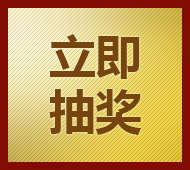
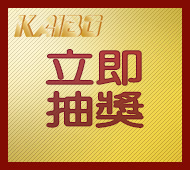
verison1

Changed region(s): [[0.0789, 0.0882, 0.7632, 0.8235]]

diff --git a/UcTest/index.html b/UcTest/index.html
@@ -1,138 +1,191 @@
 <!DOCTYPE html>
 <html>
-<head>
-<meta http-equiv="Content-Type" content="text/html; charset=utf-8" />
-<title>jQuery九宫格顺时针抽奖代码 - 站长素材</title>
 
-<style>
-#lottery{width:570px;height:510px;margin:0px auto;border:4px solid #ba1809;}
-#lottery table{background-color:yellow;}
-#lottery table td{position:relative;width:190px;height:170px;text-align:center;color:#333;font-index:-999}
-#lottery table td img{display:block;width:190px;height:170px;}
-#lottery table td a{width:190px;height:170px;display:block;text-decoration:none;background:url(lottery1.jpg) no-repeat top center;}
-#lottery table td a:hover{background-image:url(lottery2.jpg);}
-#lottery table td.active .mask{display:block;}
-.mask{
-    width:100%;
-    height:100%;
-    position:absolute;
-    left:0;
-    top:0;
-    background-color: rgba(252,211,4,0.5);
-    display:none;
-}
-</style>
+<head>
+    <meta http-equiv="Content-Type" content="text/html; charset=utf-8" />
+    <title>凱博-歡樂九宮格-凱博娛樂</title>
+
+    <style>
+        #lottery {
+            width: 570px;
+            height: 510px;
+            margin: 0px auto;
+            border: 4px solid #ba1809;
+        }
+
+        #lottery table {
+            background-color: yellow;
+        }
+
+        #lottery table td {
+            position: relative;
+            width: 190px;
+            height: 170px;
+            text-align: center;
+            color: #333;
+        }
+
+        #lottery table td img {
+            display: block;
+            width: 190px;
+            height: 170px;
+        }
+
+        #lottery table td a {
+            width: 190px;
+            height: 170px;
+            display: block;
+            text-decoration: none;
+            background: url(lottery1.jpg) no-repeat top center;
+        }
+
+        #lottery table td a:hover {
+            background-image: url(lottery2.jpg);
+        }
+
+        #lottery table td.active .mask {
+            display: block;
+        }
+
+        .mask {
+            width: 100%;
+            height: 100%;
+            position: absolute;
+            left: 0;
+            top: 0;
+            background-color: rgba(252, 211, 4, 0.5);
+            display: none;
+        }
+    </style>
 
 </head>
+
 <body>
-<div id="lottery">
-    <table border="0" cellpadding="0" cellspacing="0">
-        <tr>
-            <td class="lottery-unit lottery-unit-0"><img src="gift0.jpg"><div class="mask"></div></td>
-            <td class="lottery-unit lottery-unit-1"><img src="gift1.jpg"><div class="mask"></div></td>
-            <td class="lottery-unit lottery-unit-2"><img src="gift2.jpg"><div class="mask"></div></td>
-        </tr>
-        <tr>
-            <td class="lottery-unit lottery-unit-7"><img src="gift7.jpg"><div class="mask"></div></td>
-            <td><a href="#"></a></td>
-            <td class="lottery-unit lottery-unit-3"><img src="gift3.jpg"><div class="mask"></div></td>
-        </tr>
-        <tr>
-            <td class="lottery-unit lottery-unit-6"><img src="gift6.jpg"><div class="mask"></div></td>
-            <td class="lottery-unit lottery-unit-5"><img src="gift5.jpg"><div class="mask"></div></td>
-            <td class="lottery-unit lottery-unit-4"><img src="gift4.jpg"><div class="mask"></div></td>
-        </tr>
-    </table>
-</div>
+    <div id="lottery">
+        <table border="0" cellpadding="0" cellspacing="0">
+            <tr>
+                <td class="lottery-unit lottery-unit-0"><img src="gift0.jpg">
+                    <div class="mask"></div>
+                </td>
+                <td class="lottery-unit lottery-unit-1"><img src="gift1.jpg">
+                    <div class="mask"></div>
+                </td>
+                <td class="lottery-unit lottery-unit-2"><img src="gift2.jpg">
+                    <div class="mask"></div>
+                </td>
+            </tr>
+            <tr>
+                <td class="lottery-unit lottery-unit-7"><img src="gift7.jpg">
+                    <div class="mask"></div>
+                </td>
+                <td><a href="#"></a></td>
+                <td class="lottery-unit lottery-unit-3"><img src="gift3.jpg">
+                    <div class="mask"></div>
+                </td>
+            </tr>
+            <tr>
+                <td class="lottery-unit lottery-unit-6"><img src="gift6.jpg">
+                    <div class="mask"></div>
+                </td>
+                <td class="lottery-unit lottery-unit-5"><img src="gift5.jpg">
+                    <div class="mask"></div>
+                </td>
+                <td class="lottery-unit lottery-unit-4"><img src="gift4.jpg">
+                    <div class="mask"></div>
+                </td>
+            </tr>
+        </table>
+    </div>
 
-<script src="jquery-latest.js"></script>
-<script type="text/javascript">
-var lottery={
-    index:-1,    //当前转动到哪个位置，起点位置
-    count:0,    //总共有多少个位置
-    timer:0,    //setTimeout的ID，用clearTimeout清除
-    speed:20,    //初始转动速度
-    times:0,    //转动次数
-    cycle:50,    //转动基本次数：即至少需要转动多少次再进入抽奖环节
-    prize:-1,    //中奖位置
-    init:function(id){
-        if ($("#"+id).find(".lottery-unit").length>0) {
-            $lottery = $("#"+id);
-            $units = $lottery.find(".lottery-unit");
-            this.obj = $lottery;
-            this.count = $units.length;
-            $lottery.find(".lottery-unit-"+this.index).addClass("active");
-        };
-    },
-    roll:function(){
-        var index = this.index;
-        var count = this.count;
-        var lottery = this.obj;
-        $(lottery).find(".lottery-unit-"+index).removeClass("active");
-        index += 1;
-        if (index>count-1) {
-            index = 0;
-        };
-        $(lottery).find(".lottery-unit-"+index).addClass("active");
-        this.index=index;
-        return false;
-    },
-    stop:function(index){
-        this.prize=index;
-        return false;
-    }
-};
-
-function roll(){
-    lottery.times += 1;
-    lottery.roll();//转动过程调用的是lottery的roll方法，这里是第一次调用初始化
-    if (lottery.times > lottery.cycle+10 && lottery.prize==lottery.index) {
-        clearTimeout(lottery.timer);
-        lottery.prize=-1;
-        lottery.times=0;
-        click=false;
-    }else{
-        if (lottery.times<lottery.cycle) {
-            lottery.speed -= 10;
-        }else if(lottery.times==lottery.cycle) {
-            var index = Math.random()*(lottery.count)|0;//中奖物品通过一个随机数生成
-            lottery.prize = index;        
-        }else{
-            if (lottery.times > lottery.cycle+10 && ((lottery.prize==0 && lottery.index==7) || lottery.prize==lottery.index+1)) {
-                lottery.speed += 110;
-            }else{
-                lottery.speed += 20;
+    <script src="jquery-latest.js"></script>
+    <script type="text/javascript">
+        var lottery = {
+            index: -1,    //当前转动到哪个位置，起点位置
+            count: 0,    //总共有多少个位置
+            timer: 0,    //setTimeout的ID，用clearTimeout清除
+            speed: 20,    //初始转动速度
+            times: 0,    //转动次数
+            cycle: 50,    //转动基本次数：即至少需要转动多少次再进入抽奖环节
+            prize: -1,    //中奖位置
+            init: function (id) {
+                if ($("#" + id).find(".lottery-unit").length > 0) {
+                    $lottery = $("#" + id);
+                    $units = $lottery.find(".lottery-unit");
+                    this.obj = $lottery;
+                    this.count = $units.length;
+                    $lottery.find(".lottery-unit-" + this.index).addClass("active");
+                };
+            },
+            roll: function () {
+                var index = this.index;
+                var count = this.count;
+                var lottery = this.obj;
+                $(lottery).find(".lottery-unit-" + index).removeClass("active");
+                index += 1;
+                if (index > count - 1) {
+                    index = 0;
+                };
+                $(lottery).find(".lottery-unit-" + index).addClass("active");
+                this.index = index;
+                return false;
+            },
+            stop: function (index) {
+                this.prize = index;
+                return false;
             }
-        }
-        if (lottery.speed<40) {
-            lottery.speed=40;
         };
-        //console.log(lottery.times+'^^^^^^'+lottery.speed+'^^^^^^^'+lottery.prize);
-        lottery.timer = setTimeout(roll,lottery.speed);//循环调用
-    }
-    return false;
-}
 
-var click=false;
-
-window.onload=function(){
-    lottery.init('lottery');
-    $("#lottery a").click(function(){
-        if (click) {//click控制一次抽奖过程中不能重复点击抽奖按钮，后面的点击不响应
-            return false;
-        }else{
-            lottery.speed=100;
-            roll();    //转圈过程不响应click事件，会将click置为false
-            click=true; //一次抽奖完成后，设置click为true，可继续抽奖
+        function roll() {
+            lottery.times += 1;
+            lottery.roll();//转动过程调用的是lottery的roll方法，这里是第一次调用初始化
+            if (lottery.times > lottery.cycle + 10 && lottery.prize == lottery.index) {
+                clearTimeout(lottery.timer);
+                lottery.prize = -1;
+                lottery.times = 0;
+                click = false;
+            } else {
+                if (lottery.times < lottery.cycle) {
+                    lottery.speed -= 10;
+                } else if (lottery.times == lottery.cycle) {
+                    var index = Math.random() * (lottery.count) | 0;//中奖物品通过一个随机数生成
+                    lottery.prize = index;
+                } else {
+                    if (lottery.times > lottery.cycle + 10 && ((lottery.prize == 0 && lottery.index == 7) || lottery.prize == lottery.index + 1)) {
+                        lottery.speed += 110;
+                    } else {
+                        lottery.speed += 20;
+                    }
+                }
+                if (lottery.speed < 40) {
+                    lottery.speed = 40;
+                };
+                //console.log(lottery.times+'^^^^^^'+lottery.speed+'^^^^^^^'+lottery.prize);
+                lottery.timer = setTimeout(roll, lottery.speed);//循环调用
+            }
             return false;
         }
-    });
-};
-</script>
 
-<div style="text-align:center;margin:50px 0; font:normal 14px/24px 'MicroSoft YaHei';">
-<p>适用浏览器：360、FireFox、Chrome、Safari、Opera、傲游、搜狗、世界之窗. 不支持IE8及以下浏览器。</p>
-<p>来源：<a href="http://sc.chinaz.com/" target="_blank">站长素材</a></p>
-</div>
+        var click = false;
+
+        window.onload = function () {
+            lottery.init('lottery');
+            $("#lottery a").click(function () {
+                if (click) {//click控制一次抽奖过程中不能重复点击抽奖按钮，后面的点击不响应
+                    return false;
+                } else {
+                    lottery.speed = 100;
+                    roll();    //转圈过程不响应click事件，会将click置为false
+                    click = true; //一次抽奖完成后，设置click为true，可继续抽奖
+                    return false;
+                }
+            });
+        };
+    </script>
+
+    <div style="text-align:center;margin:50px 0; font:normal 14px/24px 'MicroSoft YaHei';">
+        <p>瘋狂轉轉！有轉有折扣．還不來獎？</p>
+        <p>獎項僅限用於：<a href="https://kaibo168.co/" target="_blank">凱博娛樂</a></p>
+    </div>
 </body>
+
 </html>
